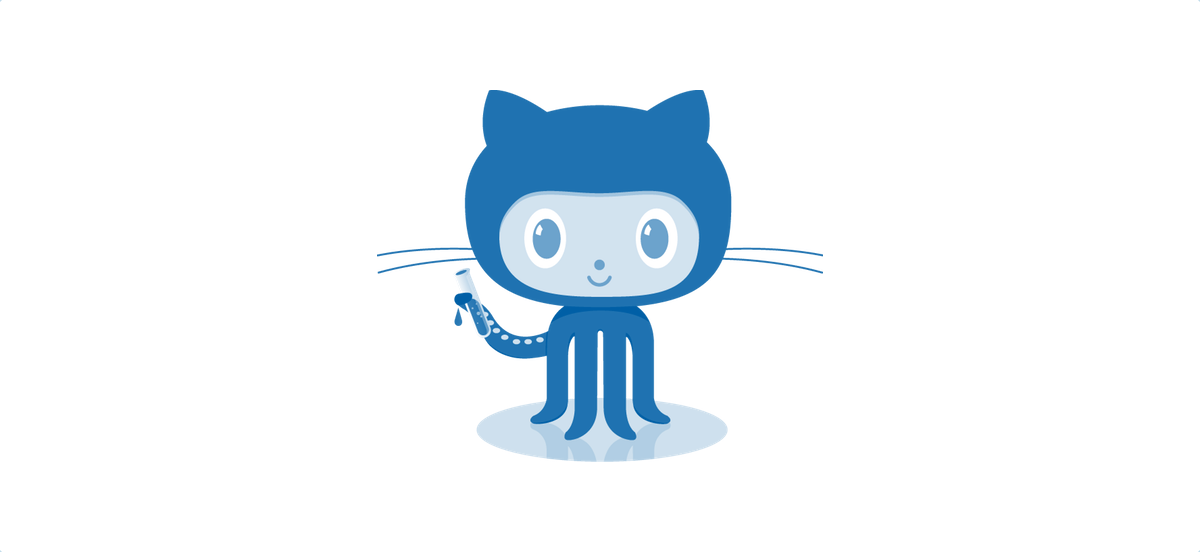
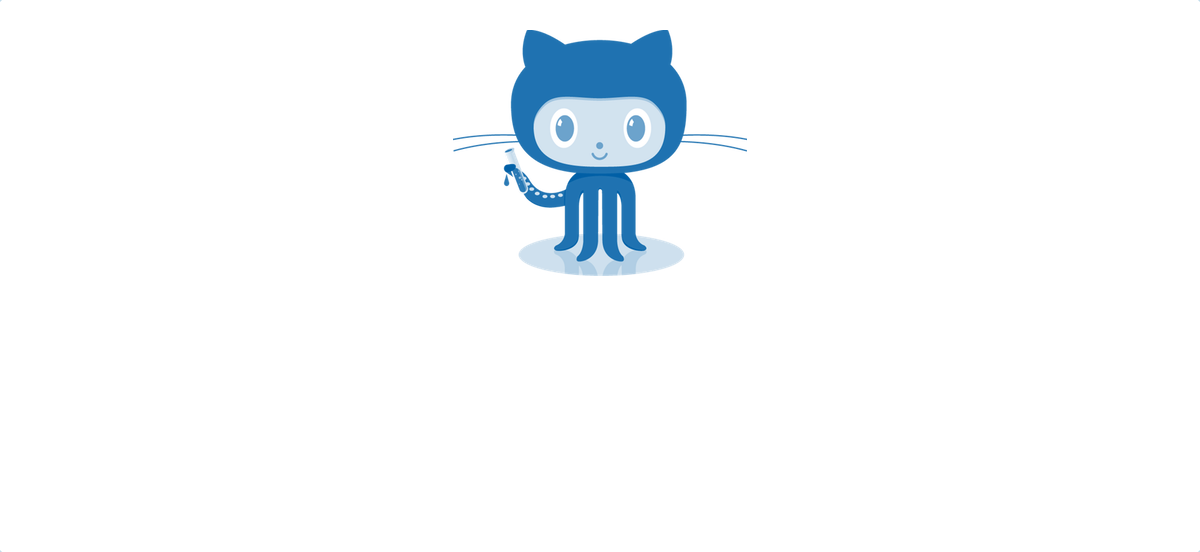
a

Changed region(s): [[0.3083, 0.0308, 0.6783, 0.8623]]

diff --git a/_posts/2014-09-24-jekyll-blog-like-a-hacker.md b/_posts/2014-09-24-jekyll-blog-like-a-hacker.md
@@ -1,11 +1,11 @@
 ---
 layout: post
-title: Blog like a Hacker, Lawyer Edition.
+title: "Blog like a Hacker, Lawyer Edition."
 summary: "Jekyll and Github reflect our values as a firm - simple, efficient & open source solutions."
 tags: [software]
 author: adler
 image:
-  feature: /wide/default-image.png
+  feature: /wide/octojekyll-blue.png
   credit:
   creditlink:
 comments: true
